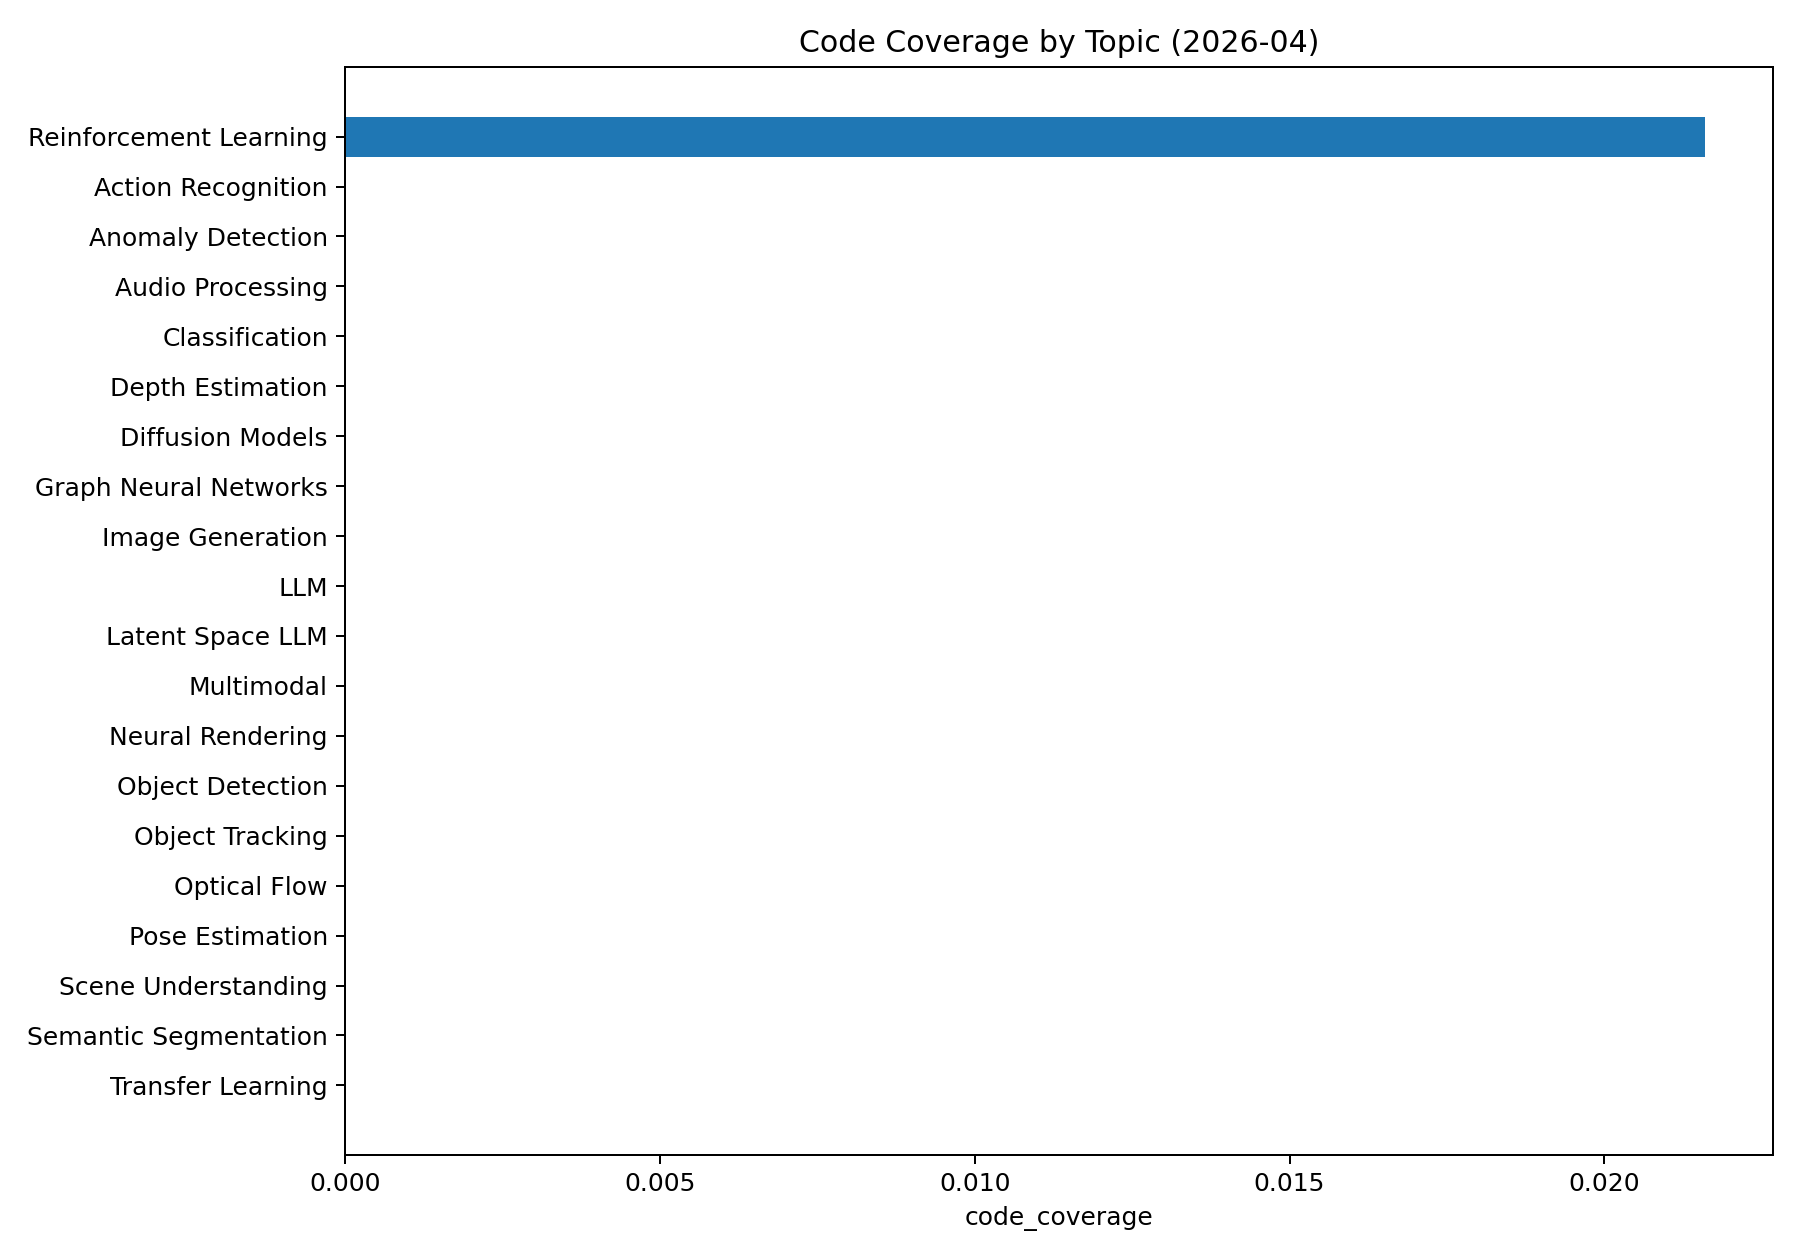
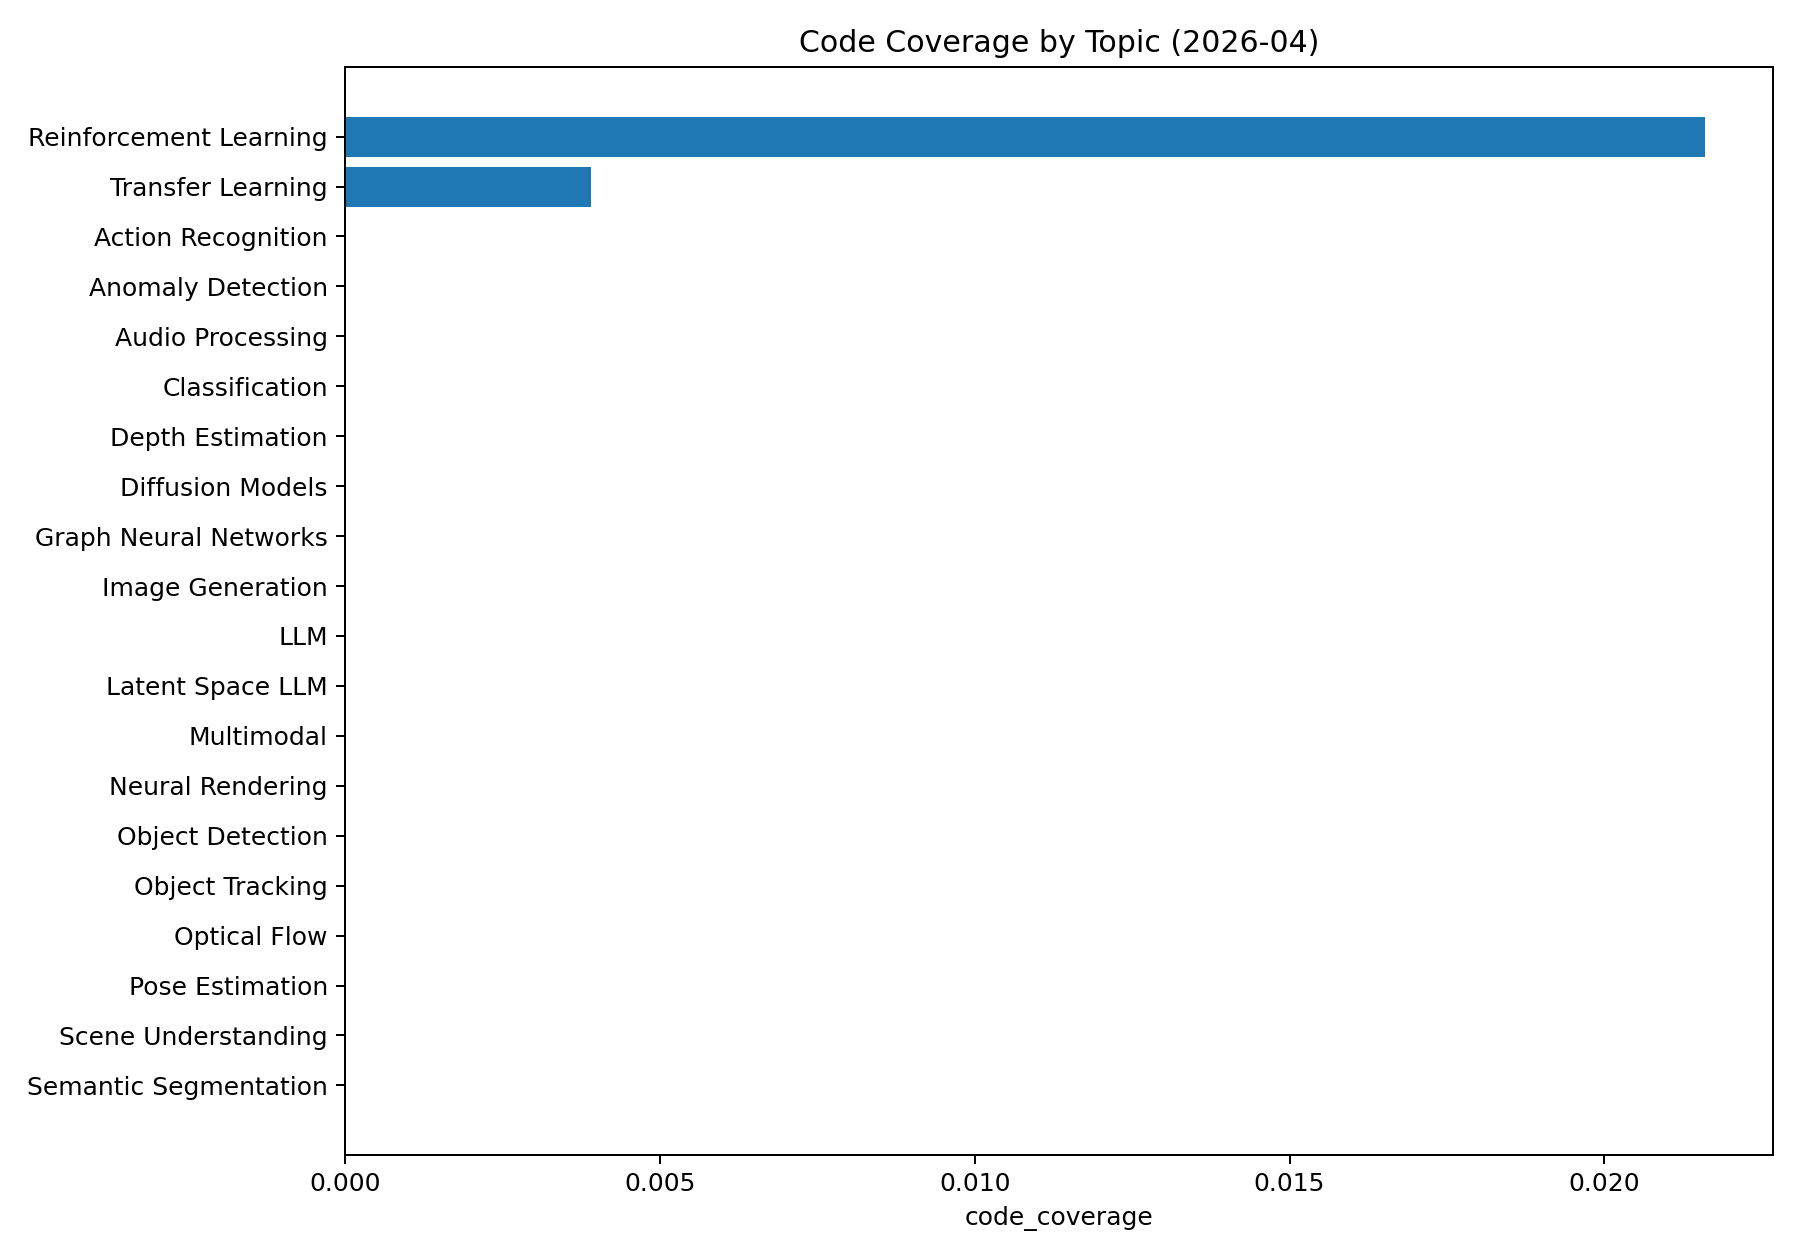
ci: build and commit analytics artifacts

diff --git a/docs/Transfer_Learning/2026-04.md b/docs/Transfer_Learning/2026-04.md
@@ -2,7 +2,7 @@
 
 | Publish Date | Title | Authors | PDF | Translate | Read | Code |
 |:---------|:-----------------------|:---------|:------|:------|:------|:------|
-|2026-04-09|Act Wisely: Cultivating Meta-Cognitive Tool Use in Agentic Multimodal Models|Shilin Yan et.al.|[2604.08545](https://arxiv.org/abs/2604.08545)|[translate](https://papers.cool/arxiv/2604.08545)|[read](https://hjfy.top/arxiv/2604.08545)|null|
+|2026-04-09|Act Wisely: Cultivating Meta-Cognitive Tool Use in Agentic Multimodal Models|Shilin Yan et.al.|[2604.08545](https://arxiv.org/abs/2604.08545)|[translate](https://papers.cool/arxiv/2604.08545)|[read](https://hjfy.top/arxiv/2604.08545)|[link](https://github.com/Arxiv-to-code/arxiv-260408545-act-wisely-cultivating-meta-cognitive-tool-use-in-agentic-mu)|
 |2026-04-09|Meta-learning In-Context Enables Training-Free Cross Subject Brain Decoding|Mu Nan et.al.|[2604.08537](https://arxiv.org/abs/2604.08537)|[translate](https://papers.cool/arxiv/2604.08537)|[read](https://hjfy.top/arxiv/2604.08537)|null|
 |2026-04-09|A-SLIP: Acoustic Sensing for Continuous In-hand Slip Estimation|Uksang Yoo et.al.|[2604.08528](https://arxiv.org/abs/2604.08528)|[translate](https://papers.cool/arxiv/2604.08528)|[read](https://hjfy.top/arxiv/2604.08528)|null|
 |2026-04-09|When Fine-Tuning Changes the Evidence: Architecture-Dependent Semantic Drift in Chest X-Ray Explanations|Kabilan Elangovan et.al.|[2604.08513](https://arxiv.org/abs/2604.08513)|[translate](https://papers.cool/arxiv/2604.08513)|[read](https://hjfy.top/arxiv/2604.08513)|null|